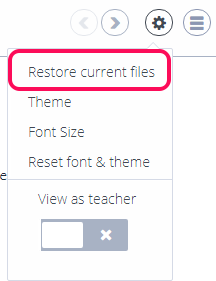
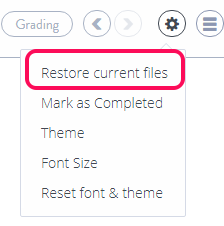
update images #1

diff --git a/source/docs/content/authoring/3ways.html.md b/source/docs/content/authoring/3ways.html.md
@@ -13,7 +13,7 @@ A project can be [assigned to a class](/docs/classes/unitmanagement/assign-proje
 
 There are drawbacks to using projects to assign to students. As your list or projects grows Books it can be hard to quickly find a project you want to assign to a class. There is also no way to arrange your projects into chronological order. Courses and books offer solutions.
 
-[IAN - image of projects list]
+<img alt="My Projects" src="/img/docs/projectslist.png" class="simple"/>
 
 ### Project units
 A project unit is essentially the same as a project. The only difference is that you create and edit your project from with a course (and module). This makes it very easy to locate your project unit and to assign them to a class. You can also arrange your units chronologically.
@@ -27,7 +27,7 @@ To solve this problem, a course allows you to group and sequence everything. Whe
 
 There is one minor drawback to project units that you should be aware of. If students are working with a project unit and wants to look at tutorial content that is contained in another unit, they have to switch units. This can take several seconds and can be irritating during a revision phase when they want to frequently switch units. For this reason, we created the book, which we will look at next.
 
-[IAN - image of course+module+units]
+<img alt="Courses" src="/img/docs/courseslist.png" class="simple"/>
 
 ### Book units
 A book is intended to replicate a hard-copy book. It contains a lot of content, often an entire course of content. Let's look at the case of a course called **Introduction to Java**. If this was a regular book, it might contain 500 pages. If you used project units to create this content, you might end up with a very large number of units, say 50.  As we mentioned above, when students are revising and want to randomly move between different units to review content, the can get frustrated by the time it takes to switch units.

diff --git a/source/docs/classes/unitmanagement/settings.html.md b/source/docs/classes/unitmanagement/settings.html.md
@@ -5,13 +5,13 @@ class_name: docs
 full_width: true
 ---
 
-You can control unit settings by pressing the button with 2 blue dots from the main units listing screen. You will get different options depending on whether it is a unit assigned from a project or from a course.
+You can control unit settings by pressing the button with 3 blue dots from the main units listing screen. You will get different options depending on whether it is a unit assigned from a project or from a course.
 
-[IAN - image with button pressed]
+<img alt="UnitSettings" src="/img/docs/classunitsettings.png" class="simple"/>
 
 Options are also available if you select a unit. You will then see the **Settings** tab and **Actions** button.
 
-[IAN - image please with actions open]
+<img alt="Unit actions" src="/img/docs/unitactions.png" class="simple"/>
 
 ## Settings available in blue dots menu and Actions area
 
@@ -52,8 +52,8 @@ Individual units that were assigned from a normal (not course) project can be [u
 The following options are available from the **Actions** area only.
 
 ### Mark all as completed
-Students are supposed to [mark a unit as completed](/docs/classes/unitmanagement/settings-info/complete-unit)
-IAN - please ensure we explain that this is doable for the student from the dashboard AND the unit settings AND the last page). However, when it comes to grading time, faculty may want to force this status for all students in the class.
+Students are supposed to [mark a unit as completed](/docs/dashboard/student/guides#completed)
+However, when it comes to grading time, faculty may want to force this status for all students in the class.
 
 ### Reset unit
 This [resets the unit for all students in the class](/docs/classes/unitmanagement/settings-info/reset-unit). Please be aware that this action results in student work being lost as the unit is fully reset to its starting state.

diff --git a/source/docs/courses/units/course-collaborate.html.md b/source/docs/courses/units/course-collaborate.html.md
@@ -6,7 +6,7 @@ full_width: true
 
 Controlling access to the editing of project units in a course is controlled from the course or module settings.
 
-[IAN - screenshot.]
+<img alt="Course Edit" src="/img/docs/courseedit.png" class="simple"/>
 [IAN / MAX - what is the inheritance rules if a course is owned by org but module not?]
 
 The rules for other users to edit a project unit in a course are as follows. 
@@ -16,6 +16,7 @@ The rules for other users to edit a project unit in a course are as follows.
 - **Public** - only you can edit.
 - **Public but organization is the owner** - any teacher in your organization can edit. 
 
+The ability to create public courses/modules can be enabled for the organisation. See [Public/Private setttings](/docs/dashboard/create/public_private) for more information.
 
 If you want 2 or more people to collaborate on a project unit, you need to understand how Codio manages this process.
 
@@ -24,7 +25,8 @@ The key thing you need to realize is that unless you are familiar with Git, **on
 Let's say User A has authored a unit. User A now wants User B to be able to collaborate. User A should first inform User B that the unit is ready to edit. When User B accesses the unit, Codio will take a snapshot of the published unit and User B can start work on it. In other words, User B is **not** editing User A's unit, User B has a clone.
 
 User B now makes changes to the unit. When done, User B should inform User A that the changes are complete and published. At this point, when User A opens the unit for editing, a dialog will appear showing that User B has published new changes. 
-COMPLETE
+
+<img alt="publishedversion" src="/img/docs/publishedversion.png" class="simple"/>
 
 You can do this with as many users as you like, provided that only one user is making changes at a time.
 

diff --git a/source/docs/dashboard/student/playmode.html.md b/source/docs/dashboard/student/playmode.html.md
@@ -4,11 +4,11 @@ class_name: docs
 full_width: true
 ---
 
-To see your Guide running, you need to *Play* it. If the Guide does not automatically start or of you have closed the Guide, go to **Tools->Guides Play** menu option or click the **Start Guide** icon in the file tree:
+To see your tutorial running, you need to *Play* it. If the tutorial does not automatically start or of you have closed it, go to **Tools->Author Content->Play** menu option or click the **Start Tutorial** icon in the file tree:
 
 <img alt="StartGuides" src="/img/docs/guides/startguides.png" class="simple"/>
 
-At this point the panel layout is set up automatically according to the layout specified in the first Guide section and the first section will be displayed.
+At this point the panel layout is set up automatically according to the layout specified in the first section and it will be displayed.
 
 
 ## Player Options
@@ -29,9 +29,6 @@ The Restore Current Files feature is a great way for students to reset/restore a
 
 <img alt="authtoken" src="/img/docs/guides/reset.png" class="simple"/>
 
-Currently, it is not possible for the author to use this feature as it only works when it is used by a Student within a Class. For an author to test from the viewpoint of a student, you will need to
 
-1. Create a Unit within a Module. If the Unit already exists, locate the Unit within a Module and enable the Edit Units slider. You should then click on Refresh Source.
-1. Click on the Unit you want to test. You can then select the button 'Test Unit' which will create a copy that you can run with the same access privileges as a student would see, including the ability to restore files.
 
 

diff --git a/source/docs/classes/monitor/grading-freetext.html.md b/source/docs/classes/monitor/grading-freetext.html.md
@@ -6,11 +6,11 @@ full_width: true
 
 Free text questions will normally require a manual grading process. In order to grade these questions, you should first select the unit. You will then be shown the student list, as you can see below.
 
-[IAN - image please]
+<img alt="StudentList" src="/img/docs/studentlist.png" class="simple"/>
 
 You can now select a student. You will then be shown the list of all assessments for that student within the unit. Free text questions are denoted by the icon highlighted below. 
 
-[IAN - image please, with GRADE and DRAFT in different questions]
+<img alt="Free Text Grading" src="/img/docs/guides/freetext-grading.png" class="simple"/>
 
 Note that if a student has started to answer a question but not submitted the answer, then you will see **DRAFT** written next to it. Once they submit, you will see **GRADE** indicating that the question has been submitted and is ready to be graded.
 

diff --git a/source/docs/courses/units/publish.html.md b/source/docs/courses/units/publish.html.md
@@ -9,7 +9,7 @@ You need to explicitly publish a unit only for project units, not book units.
 ## Updating book units
 Book units are published from the books area. Let's say you have already published a book and created a unit from a part of that book. If you then make changes to the book and republish the book, those published changes are not automatically reflected in the course. If you want to update the unit, then need to press the **Update to latest version** button that appears on the right side of the unit.
 
-[IAN - image pls]
+<img alt="Book update" src="/img/docs/bookupdate.png" class="simple"/>
 
 After pressing this, the books changes will be reflected in the unit. If you want these changes to be passed through to a class where the unit was previously added, then please [click here](/docs/classes/unitmanagement/upgradecourse) for details.
 

diff --git a/source/docs/dashboard/student/guides.html.md b/source/docs/dashboard/student/guides.html.md
@@ -1,5 +1,5 @@
 ---
-title: "Guides"
+title: "Tutorial Tools"
 
 ---
 
@@ -11,6 +11,19 @@ To do this:
 
 1. Open the unit you are working on. In the top right, choose **Settings**, and then **Restore current files**
 <img alt="authtoken" src="/img/docs/what_students_do/settings.png" class="simple"/>
+
+<a name="completed"></a>
+
+### Completing Units
+
+When you have completed a tutorial you can mark it as completed. This can be done from either:
+
+- Your [My Classroom](/docs/dashboard/student/myclassroom/) area
+- In the tutorial settings
+	<img alt="Complete" src="/img/docs/complete.png" class="simple"/>
+- From the last page in the tutorial.
+
+If you mark a unit as complete in error, discuss with your class instructor/teacher who can reset the unit so you can access it again
 
 ### Lexikon
 

diff --git a/source/docs/courses/units/update-class.html.md b/source/docs/courses/units/update-class.html.md
@@ -17,9 +17,8 @@ If you make changes to your authored tutorial content and assessments and requir
 
 This will not change units that have already been assigned to a class. To do so, you should go to the class and upgrade the course from the class. If you have updated the course, then you will see the following screen in your class.
 
-[IAN - image pls]
+<img alt="Upgrade course" src="/img/docs/class_administration/upgradecourse.png" class="simple"/>
 
 When you press the button, you will see the following screen, which shows you which units have been modified. You can then select the units that you want to update. 
 
-[IAN - image pls]
-
+<img alt="Upgrade course list" src="/img/docs/class_administration/stackupdated.png" class="simple"/>

diff --git a/source/docs/content/authoring/playmode.html.md b/source/docs/content/authoring/playmode.html.md
@@ -18,13 +18,12 @@ You can also start the preview mode from the **Tools->Author Content->Play**.
 
 Finally, there is also a button at the top of the file tree that launches the content.
 
-[IAN _ CHECK IMAGE PLS]
+
 <img alt="StartGuides" src="/img/docs/guides/startguides.png" class="simple"/>
 
 
 ### Player Options
 <img alt="authtoken" src="/img/docs/guides/playmode.png" class="simple"/>
-[IAN - redo this please]
 
 When the content is rendered to a student, various options can be controlled
 

diff --git a/source/docs/courses/units/edit.html.md b/source/docs/courses/units/edit.html.md
@@ -7,7 +7,7 @@ full_width: true
 ### Editing a book unit
 If you want to edit book unit content, then you need to edit the book itself. You would then republish the book after which you will see **Update to latest version** in the unit listing. 
 
-[IAN - image pls]
+<img alt="Book update" src="/img/docs/bookupdate.png" class="simple"/>
 
 If you have added new content then you can also remap the unit to the book as described on the [adding a unit](/docs/books/unit-book) page.
 

diff --git a/source/docs/courses/units/unit-add.html.md b/source/docs/courses/units/unit-add.html.md
@@ -30,13 +30,14 @@ You can create a new unit in the following ways.
 ### New book unit
 Creating a new book unit involves pointing to the parts of a book that you want to map to your unit. You will seen the following screen.
 
-[IAN]
+<img alt="Book Unit" src="/img/docs/newbook.png" class="simple"/>
 
 You can now 
 
 - specify the book you want to reference
 - select the parts of the book you want to include in this unit
 - give the unit a name.
+
 
 
 

diff --git a/source/docs/content/authoring/assessments/assessments-free.html.md b/source/docs/content/authoring/assessments/assessments-free.html.md
@@ -43,7 +43,7 @@ If **One Attempt Only** is enabled, students will only be able to submit their a
 
 To review and grade answers given by student, select the student and a list of all the assessments in the unit are shown.
 
-<img alt="authtoken" src="/img/docs/guides/freetext-grading.png" class="simple"/>
+<img alt="Free Text Grading" src="/img/docs/guides/freetext-grading.png" class="simple"/>
 
 Free Text Assessments are identifiable from the icon
 
